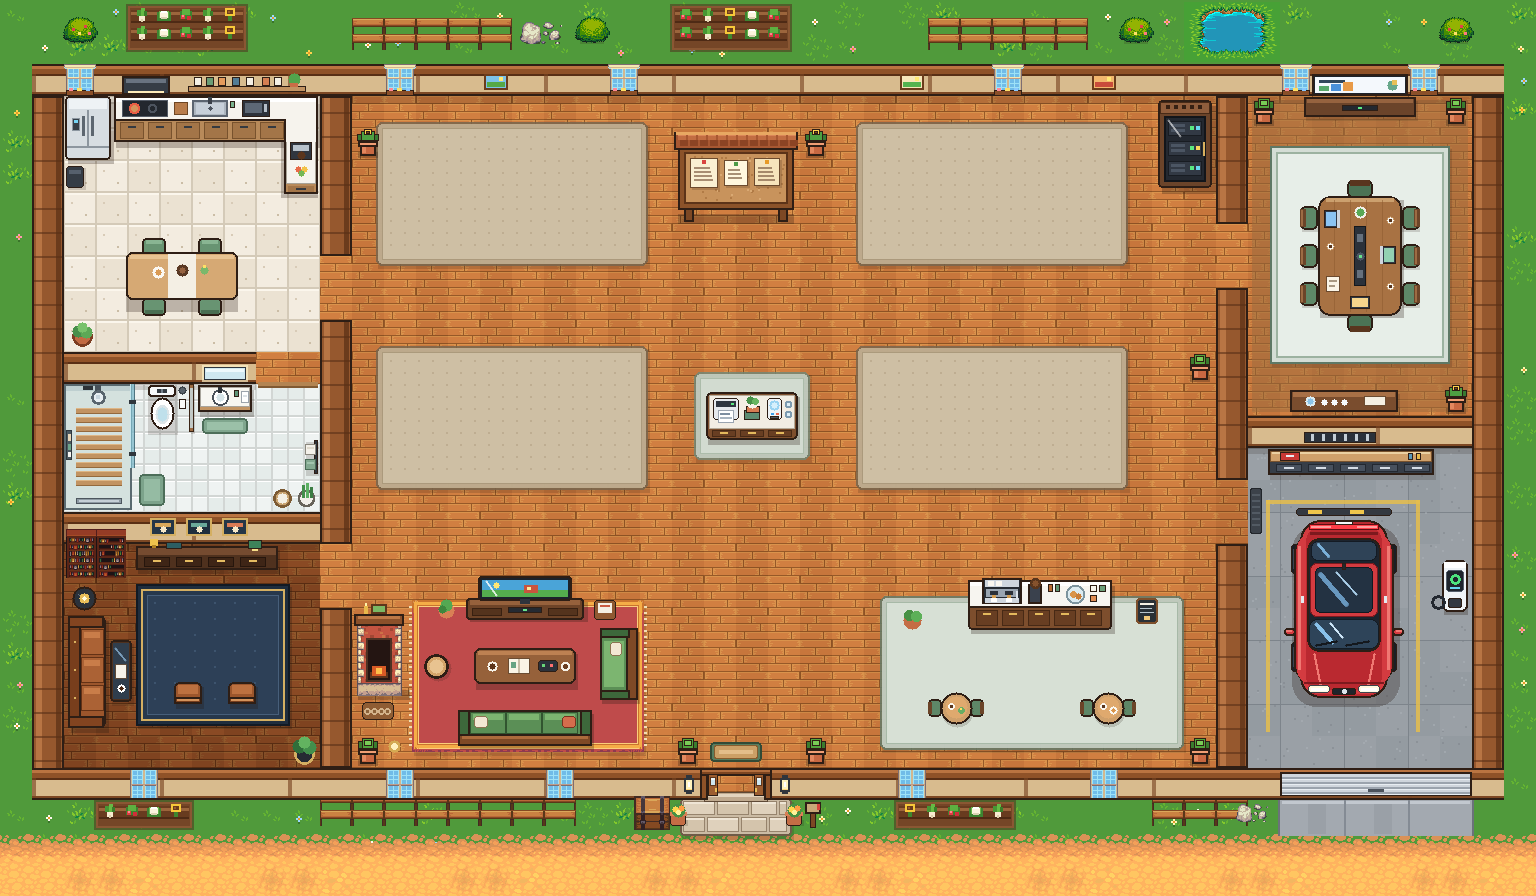
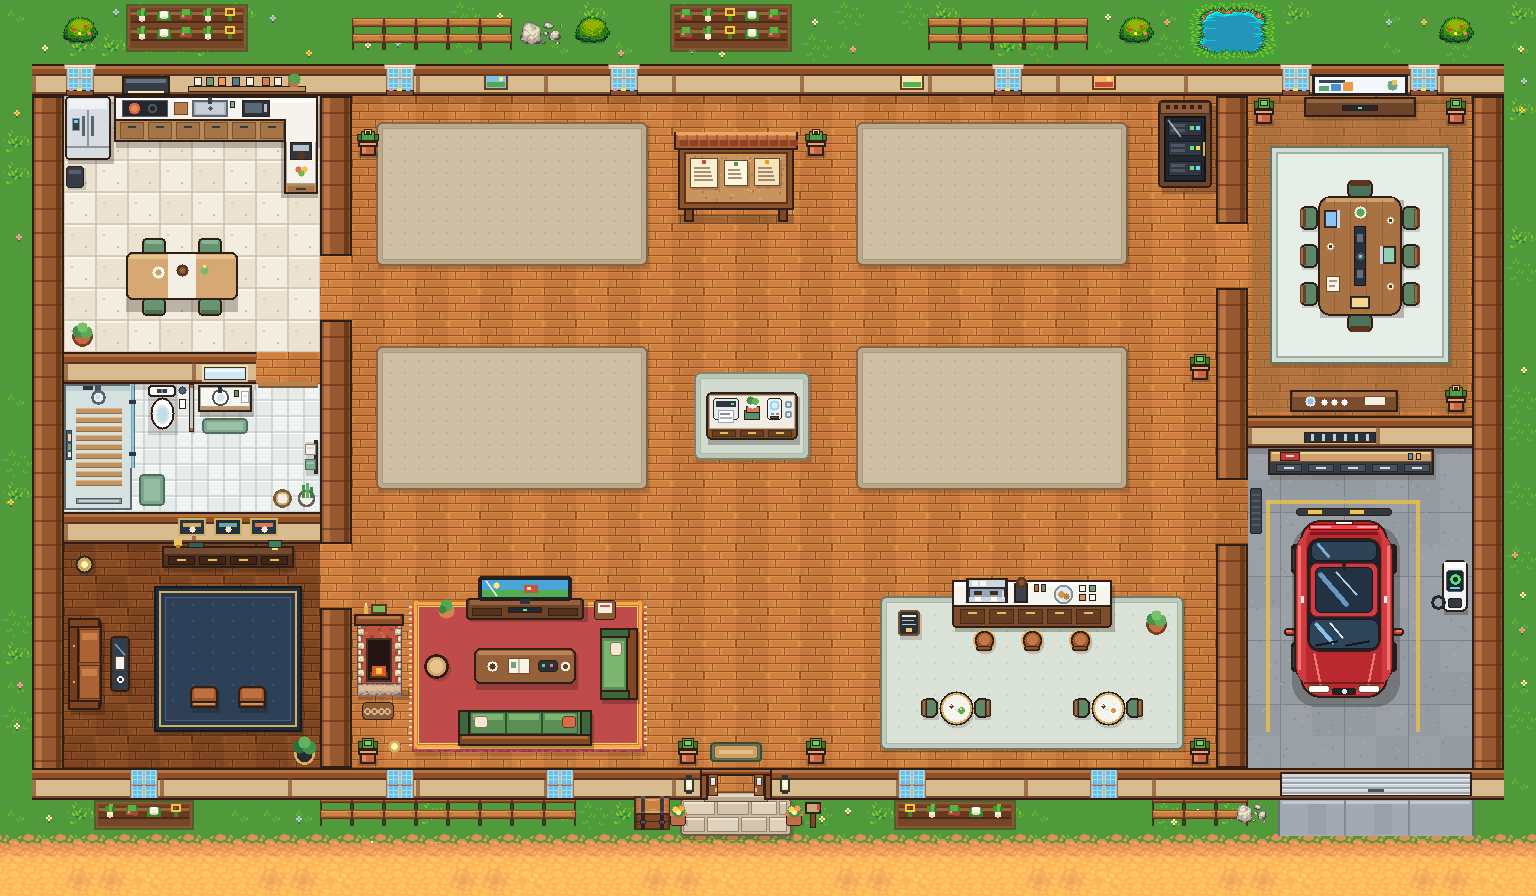
design: add leather bar stools and marble bistro tables to Coffee Bar, declutter and center-align Founder Suite

diff --git a/public/office-harvest.js b/public/office-harvest.js
@@ -12,7 +12,7 @@
   if (!O) return;
 
   var ASSET_BASE = '/art/stardew-v1/';
-  var ASSET_VER = '?v=13';
+  var ASSET_VER = '?v=14';
   var ASSETS = {
     bg: { uri: ASSET_BASE + 'farmhouse-bg@2x.png', w: 768, h: 448 },
     meadow: { uri: ASSET_BASE + 'meadow-tile@2x.png', w: 96, h: 96 },
@@ -599,8 +599,8 @@
         // Warm hearth firelight, lounge TV glow & Founder/CEO executive brass lamps!
         drawWarmGlow(g, 12.2 * T, 21 * T, 56, 'rgba(255, 160, 66, ' + (0.42 * glowStrength).toFixed(2) + ')');
         drawWarmGlow(g, 15.8 * T, 19.3 * T, 34, 'rgba(120, 200, 255, ' + (0.28 * glowStrength).toFixed(2) + ')');
-        drawWarmGlow(g, 2.6 * T, 18.6 * T, 34, 'rgba(255, 206, 112, ' + (0.44 * glowStrength).toFixed(2) + ')');
-        drawWarmGlow(g, 7.6 * T, 17.2 * T, 30, 'rgba(255, 216, 128, ' + (0.38 * glowStrength).toFixed(2) + ')');
+        drawWarmGlow(g, 2.6 * T, 17.6 * T, 34, 'rgba(255, 206, 112, ' + (0.44 * glowStrength).toFixed(2) + ')');
+        drawWarmGlow(g, 8.6 * T, 17.2 * T, 30, 'rgba(255, 216, 128, ' + (0.38 * glowStrength).toFixed(2) + ')');
 
         // Porch entrance carriage lanterns flanking the farmhouse front door
         drawWarmGlow(g, 21.5 * T, 24.4 * T, 26, 'rgba(255, 206, 108, ' + (0.62 * glowStrength).toFixed(2) + ')');

diff --git a/app/reference-office.tsx b/app/reference-office.tsx
@@ -33,7 +33,7 @@ function load() {
     const art = new Image(); art.src = '/art/office-reference.png'; await art.decode();
     (window as unknown as { MDOffice: Vendor }).MDOffice.campusArt = art;
     // Optional Phase 03 Retina workstation & Stardew Valley scene adapters.
-    for (const extra of ['/retina-workstation.js', '/office-harvest.js?v=13']) {
+    for (const extra of ['/retina-workstation.js', '/office-harvest.js?v=14']) {
       await new Promise<void>(resolve => {
         const script = document.createElement('script');
         script.src = extra;
